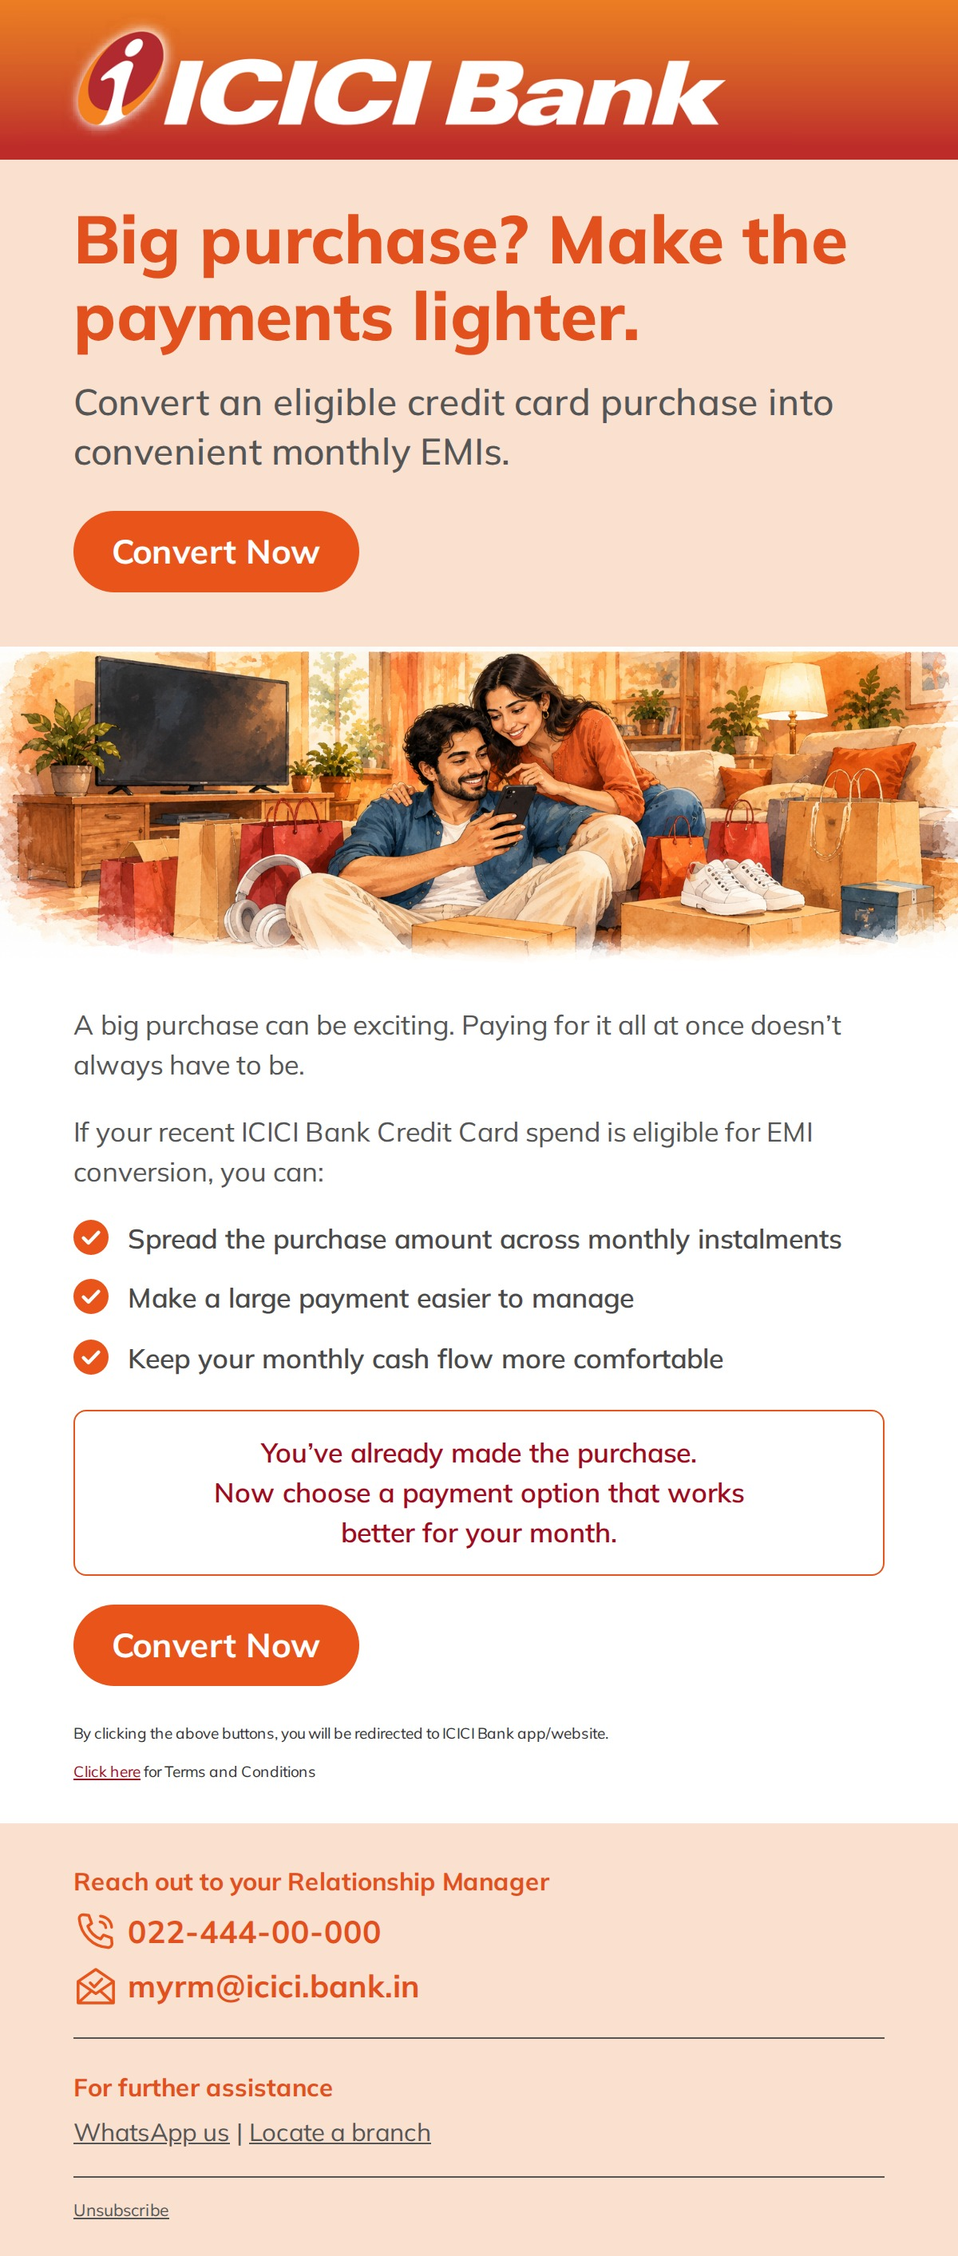
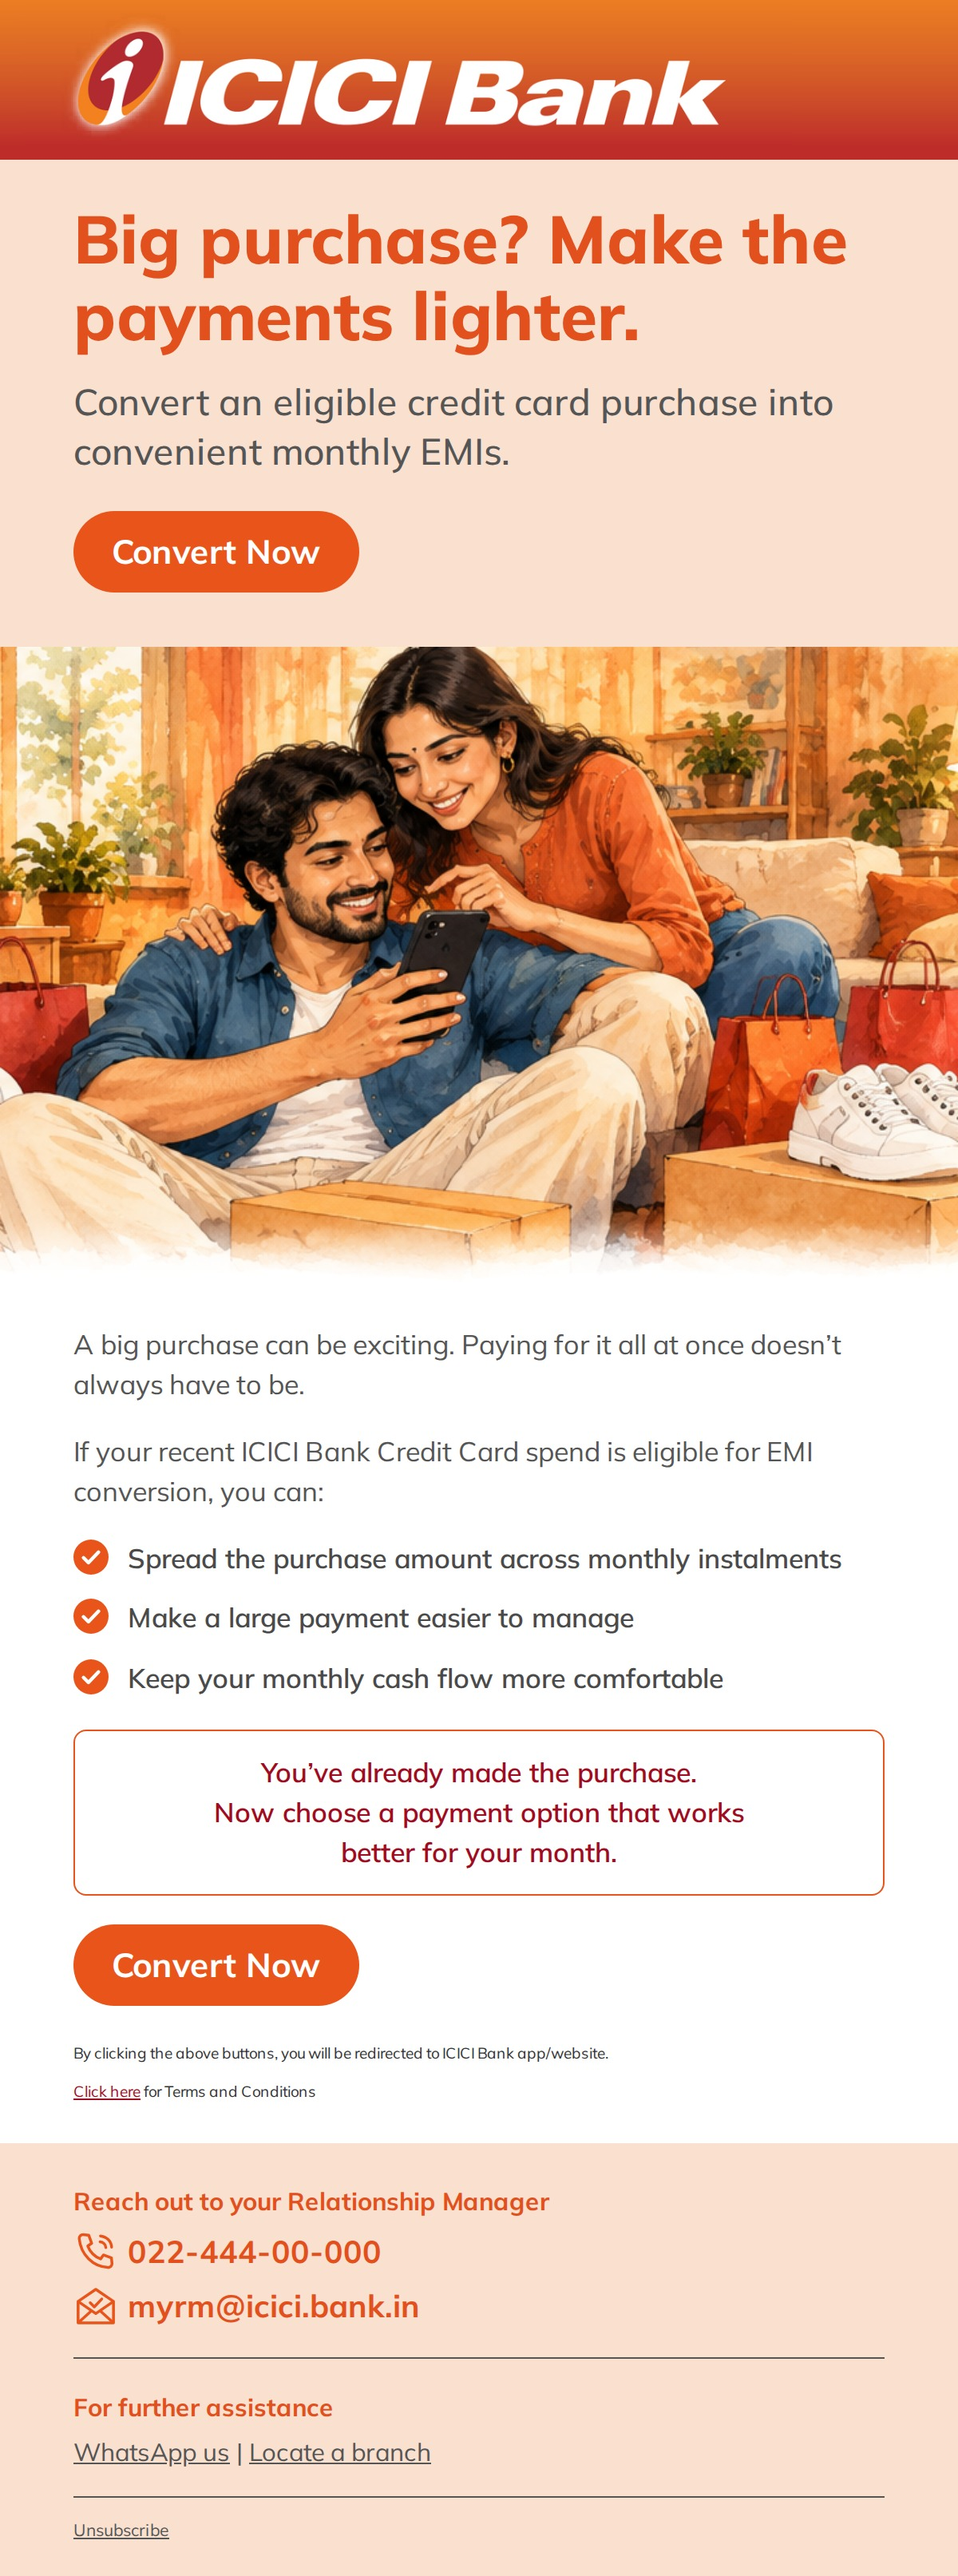
Recompose mailer illustrations to the reference slot proportions
Crop in on the subjects so Mailer 1's hero is 600x364 and Mailer 2's
is 600x400, matching the reference mailers instead of 3:1 strips.

Claude-Session: https://claude.ai/code/session_01Xrrh9AtUaVEQQhgAmmX2d4

diff --git a/mailers/source/mailer2.html b/mailers/source/mailer2.html
@@ -31,7 +31,7 @@ h1{font-size:42px;line-height:1.14;font-weight:800;color:#E2501D;letter-spacing:
 .sm{font-size:10.5px;line-height:1.6;color:#555}
 .sm a{color:#555}
 
-.body{text-align:left}.imgcrop img{margin-top:-0px}.imgcrop{overflow:hidden;height:200px}</style></head><body><div class="m">
+.body{text-align:left}.imgcrop img{margin-top:-0px}.imgcrop{overflow:hidden;height:400px}</style></head><body><div class="m">
 <div class="hd"><img src="logo-band.png" alt="ICICI Bank"></div>
 <div class="hero"><h1>Big purchase? Make the payments lighter.</h1><p class="sub">Convert an eligible credit card purchase into convenient monthly EMIs.</p><a class="btn">Convert Now</a></div>
 <div class="vis imgcrop"><img src="ill-emi.png" style=""></div>

diff --git a/mailers/source/mailer1.html b/mailers/source/mailer1.html
@@ -31,7 +31,7 @@ h1{font-size:42px;line-height:1.14;font-weight:800;color:#E2501D;letter-spacing:
 .sm{font-size:10.5px;line-height:1.6;color:#555}
 .sm a{color:#555}
 
-.body{text-align:left}.imgcrop img{margin-top:-0px}.imgcrop{overflow:hidden;height:200px}</style></head><body><div class="m">
+.body{text-align:left}.imgcrop img{margin-top:-0px}.imgcrop{overflow:hidden;height:364px}</style></head><body><div class="m">
 <div class="hd"><img src="logo-band.png" alt="ICICI Bank"></div>
 <div class="hero"><h1>Make recurring payments simpler</h1><p class="sub">Set it once, and let your payments<br>take care of themselves.</p><a class="btn">Manage Bills</a></div>
 <div class="vis imgcrop"><img src="ill-bills.png" style=""></div>

diff --git a/mailers/source/build.py b/mailers/source/build.py
@@ -57,14 +57,14 @@ def mailer(d):
 </div></body></html>"""
 
 M1=dict(h1='Make recurring payments simpler',sub='Set it once, and let your payments<br>take care of themselves.',cta='Manage Bills',
- img='ill-bills.png',crop=0,h=200,align='left',
+ img='ill-bills.png',crop=0,h=364,align='left',
  pre=['Some payments are easy to forget because they happen so often. Subscriptions, memberships and regular bills quietly become part of your monthly routine.',
       'With a Standing Instruction on your credit card, eligible recurring payments can be automated. You can:'],
  list=['Set up eligible recurring payments once','Avoid making the same payment manually every month','Manage eligible regular bills through iMobile'],
  close='A little automation can make your monthly money routine one thing simpler.',callout=False,
  sys='<p style="margin-bottom:2px">This is a system generated e-mail. Please do not reply.</p>')
 M2=dict(h1='Big purchase? Make the payments lighter.',sub='Convert an eligible credit card purchase into convenient monthly EMIs.',cta='Convert Now',
- img='ill-emi.png',crop=0,h=200,align='left',
+ img='ill-emi.png',crop=0,h=400,align='left',
  pre=['A big purchase can be exciting. Paying for it all at once doesn’t always have to be.',
       'If your recent ICICI Bank Credit Card spend is eligible for EMI conversion, you can:'],
  list=['Spread the purchase amount across monthly instalments','Make a large payment easier to manage','Keep your monthly cash flow more comfortable'],
